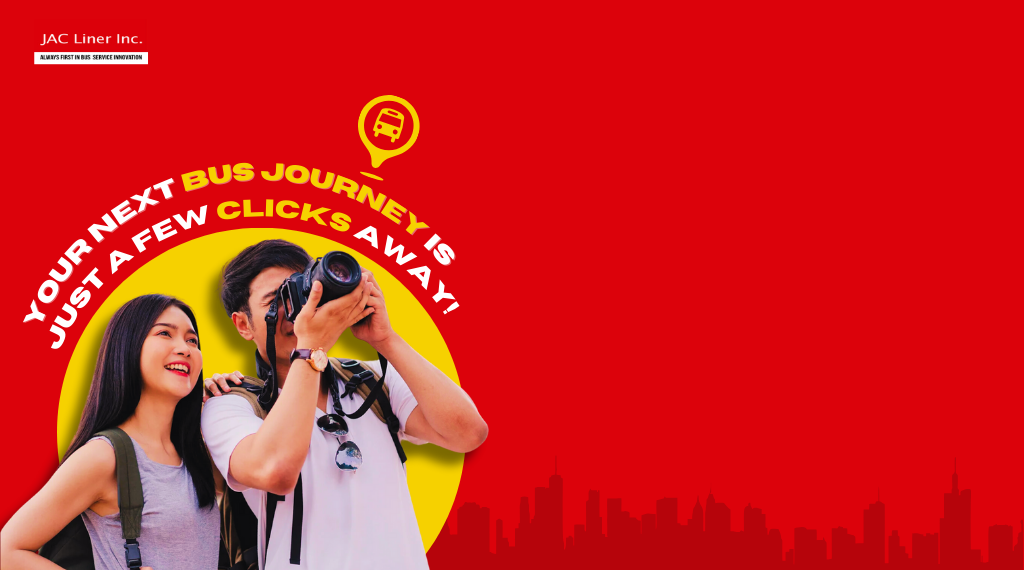
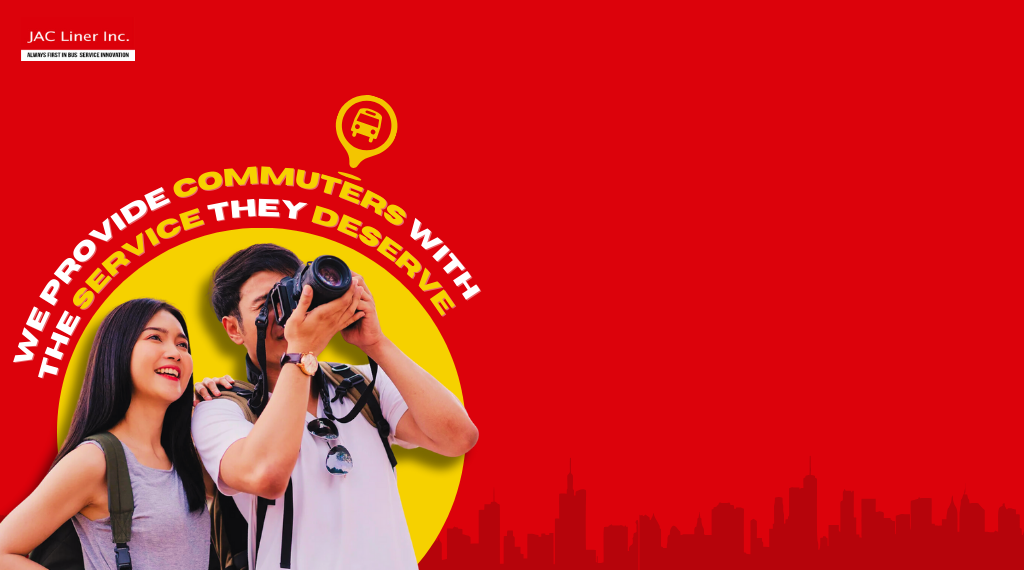
client to staff changes
change notes + banner text + background text (convert it to staff system)

Changed region(s): [[0.0, 0.1491, 1.0, 1.0], [0.0, 0.0596, 0.1562, 0.1193]]

diff --git a/src/main/java/com/shivajivarma/brs/utility/constants/Labels.java b/src/main/java/com/shivajivarma/brs/utility/constants/Labels.java
@@ -4,22 +4,13 @@ package com.shivajivarma.brs.utility.constants;
 public class Labels {
 	
 	public static final String TITLE = "JacLiner Bus Reservation System";
-	public static final String LOGIN = "Let's Get Started";
+	public static final String LOGIN = "Staff Login";
 	public static final String LOGINB = "LOGIN";
 	public static final String USERNAME = "Enter your username:";
-	public static final String USERNAME2 = "Username:";
 	public static final String PASSWORD = "Enter your password:";
-	public static final String PASSWORD2 = "Password:";
-	public static final String RE_ENTER_PASSWORD = "Re-Enter Password:";
-	public static final String REGISTER = "REGISTER";
-	public static final String REGISTER2 = "Create an account ";
-	public static final String REGISTERATION = "Registeration";
-	public static final String FULL_NAME = "Full Name:";
-	public static final String EMAIL = "Email:";
-	public static final String MOBILE = "Mobile Number (+63):";
 	public static final String SUBMIT = "SUBMIT";
-	public static final String CANCEL = "CANCEL";
-	public static final String ENTER_TICKET_ID = "Enter your Ticket no.:";
+	public static final String CANCELTIX = "CANCEL TICKET";
+	public static final String ENTER_TICKET_ID = "Enter the Passenger's Ticket #:";
 	public static final String TICKET_NO = "Ticket no.";
 	public static final String LOGOUT = "Logout";
 	public static final String PRINT = "View Ticket";
@@ -28,8 +19,8 @@ public class Labels {
 	public static final String DATE = "Date: ";
 	public static final String BACK = "BACK";
 	public static final String BOOK = "BOOK";
-	public static final String REMINDER = "<html><i><b>Reminder: Once you cancel your ticket, it will be voided and you <br>will no longer be able to use it for travel. </b></i></html>";
-	public static final String REMINDER2 = "<html><i><b>Reminder: Select a future date and click 'submit' to continue. </b></i></html>";
-	public static final String REMINDER3 = "<html><i><b>To display ticket details, select the row with the ticket ID you wish to view, then click 'View Ticket'.</b></i></html>";
+	public static final String REMINDER = "<html><i><b>Reminder: Fees will apply if a passenger cancels their ticket one day <br> before the departure date. </b></i></html>";
+	public static final String REMINDER2 = "<html><i><b>Please double-check and confirm the destination and date selected <br> with the passenger before clicking 'submit'.</b></i></html>";
+	public static final String REMINDER3 = "<html><i><b>To display passenger's ticket details, select the row with the ticket ID you wish to view, then click 'View Ticket'.</b></i></html>";
 
 }

diff --git a/src/main/java/com/shivajivarma/brs/ui/CancellationTabView.java b/src/main/java/com/shivajivarma/brs/ui/CancellationTabView.java
@@ -54,15 +54,15 @@ public class CancellationTabView extends BaseView implements View{
 
 	
 	private void initializeLabels() {
-		this.add(ViewComponentFactory.createJLabelMidNormal(Labels.ENTER_TICKET_ID, new int[]{100, 130, 200, 20}, Color.white));
+		this.add(ViewComponentFactory.createJLabelMidNormal(Labels.ENTER_TICKET_ID, new int[]{50, 130, 200, 20}, Color.white));
 		
 		this.add(ViewComponentFactory.createJLabelNormal(Labels.REMINDER, new int[]{59, 293, 200, 20}, Color.white));
 	}
 	
 	private void initializeComponents() {
 		Color jaclinery = new Color(248, 188, 8);
-		ticketNumber = ViewComponentFactory.createJTextFieldMidNormal(new int[]{385, 125, 150, 40});
-		submitButton = ViewComponentFactory.createJButtonNormal(Labels.SUBMIT, new int[]{385, 230, 150, 35}, Color.white, jaclinery);
+		ticketNumber = ViewComponentFactory.createJTextFieldMidNormal(new int[]{420 , 125, 150, 40});
+		submitButton = ViewComponentFactory.createJButtonNormal(Labels.CANCELTIX, new int[]{405, 230, 180, 35}, Color.white, jaclinery);
 		
 		submitButton.setVisible(true); 
 		submitButton.setFocusPainted(false);

diff --git a/src/main/java/com/shivajivarma/brs/ui/LoginPanelView.java b/src/main/java/com/shivajivarma/brs/ui/LoginPanelView.java
@@ -63,7 +63,7 @@ public class LoginPanelView extends BaseView implements View {
 
     private void initializeLabels() {
         Color jacliner = new Color(246, 209, 0);
-        add(ViewComponentFactory.createJLabelHeader(Labels.LOGIN, new int[] { x + 375, y - 40, 120, 28 }, jacliner));
+        add(ViewComponentFactory.createJLabelHeader(Labels.LOGIN, new int[] { x + 405, y - 40, 120, 28 }, jacliner));
         add(ViewComponentFactory.createJLabelNormal(Labels.USERNAME, new int[] { x + 305, y + 25, 150, 20 }, Color.white));
         add(ViewComponentFactory.createJLabelNormal(Labels.PASSWORD, new int[] { x + 305, y + 105, 150, 20 }, Color.white));
     }

diff --git a/src/main/java/com/shivajivarma/brs/utility/ViewComponentFactory.java b/src/main/java/com/shivajivarma/brs/utility/ViewComponentFactory.java
@@ -27,7 +27,7 @@ public class ViewComponentFactory {
 	
 
 	static {
-		FONT_HEADER = loadFont("/fonts/Montserrat-ExtraBoldItalic.ttf", Font.BOLD, 24);
+		FONT_HEADER = loadFont("/fonts/Montserrat-ExtraBold.ttf", Font.BOLD, 24);
 		FONT_NORMAL = loadFont("/fonts/Montserrat-Bold.ttf", Font.PLAIN, 17);
 		FONT_MIDNORMAL = loadFont("/fonts/Montserrat-ExtraBold.ttf", Font.PLAIN, 20);
 		FONT_HOME = loadFont("/fonts/Montserrat-BoldItalic.ttf", Font.PLAIN, 19);
